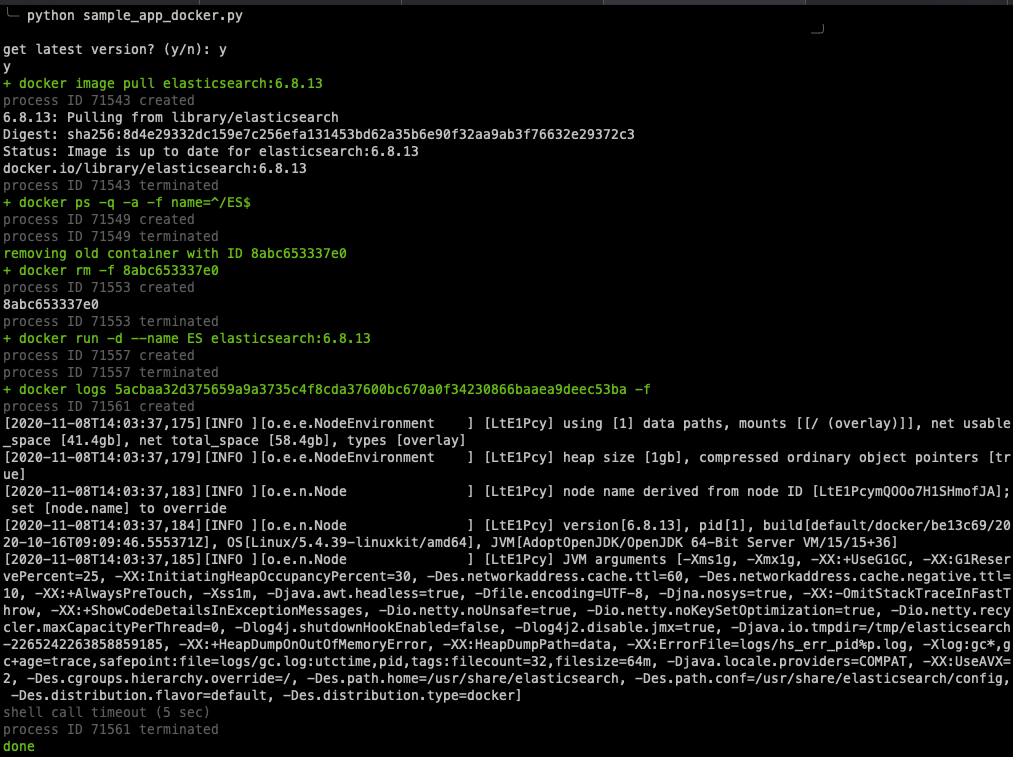
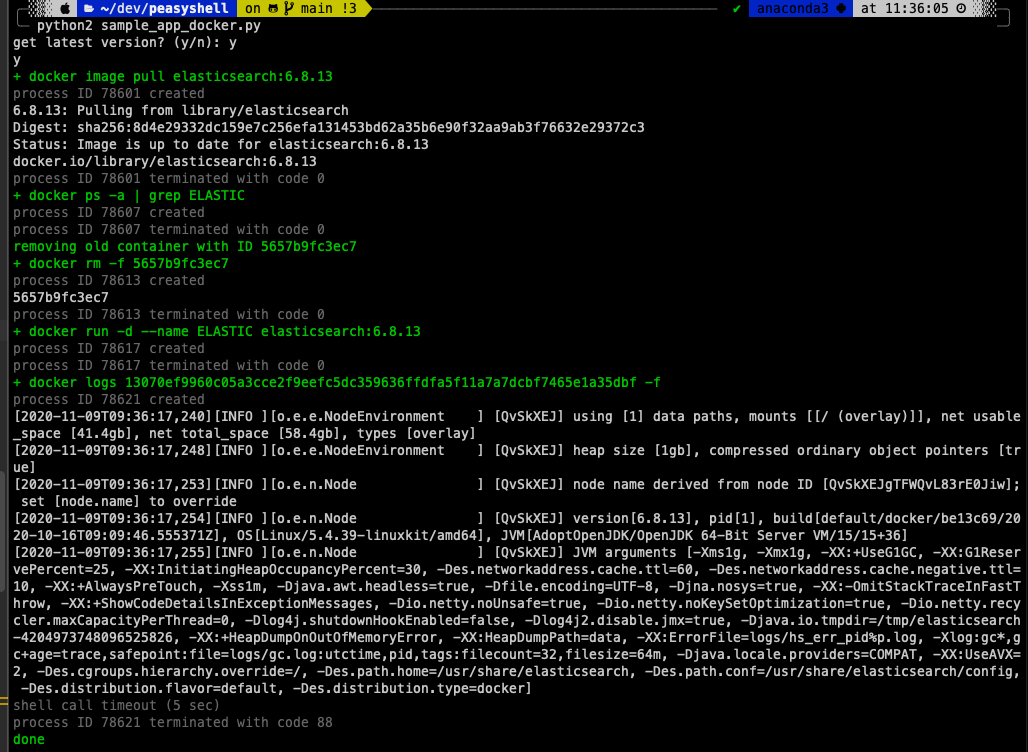
output decode compatibility fix, save last result in a local variable, examples improved

Changed region(s): [[0.0, 0.0, 1.0, 1.0]]

diff --git a/peasyshell.py b/peasyshell.py
@@ -125,6 +125,8 @@ The exit code that the script will end with when timeout occurred and exit_on_ti
 """
 timeout_exitcode = 88
 
+shres = ShellResult()
+
 
 def sh(cmd,
        fmt_args=(),
@@ -225,8 +227,6 @@ def sh(cmd,
     # note: child will not be terminated if parent (this) process is killed
     child_process_ids.add(p.pid)
 
-    res = ShellResult()
-
     timed_out = False
     if timeout_sec == 0:
         p.wait()
@@ -250,18 +250,25 @@ def sh(cmd,
     # child process already terminated, no need to kill it at exit
     child_process_ids.remove(p.pid)
 
+    def try_decode(s):
+        try:
+            return s.decode()
+        except (UnicodeDecodeError, AttributeError):
+            return s
+
+    shres.returncode = p.returncode
+    shres.stdout = None
+    shres.stdout = None
     if p.stdout:
-        res.stdout = p.stdout.read().decode()
+        shres.stdout = try_decode(p.stdout.read())
     if p.stderr:
-        res.stderr = p.stderr.read().decode()
-    if p.returncode:
-        res.returncode = p.returncode
+        shres.stderr = try_decode(p.stderr.read())
 
     if output_remove_trailing_newlines:
-        if res.stdout:
-            res.stdout = res.stdout.rstrip(os.linesep)
-        if res.stderr:
-            res.stderr = res.stderr.rstrip(os.linesep)
+        if shres.stdout:
+            shres.stdout = shres.stdout.rstrip(os.linesep)
+        if shres.stderr:
+            shres.stderr = shres.stderr.rstrip(os.linesep)
 
     if exit_on_timeout and timed_out:
         logger.error("shell call timed-out - stopping execution")
@@ -271,7 +278,7 @@ def sh(cmd,
         logger.error("shell call failed with code {} - stopping execution".format(p.returncode))
         exit(p.returncode)
 
-    return res
+    return shres
 
 
 def input_compatible(prompt=None):

diff --git a/sample_app_docker.py b/sample_app_docker.py
@@ -6,23 +6,31 @@ from peasyshell import *
 init_logging()
 
 cfg = {
-    "container_name": "ES",
+    "container_name": "ELASTIC",
     "image_name": "elasticsearch:6.8.13"
 }
 
 get_latest = yes_or_no("get latest version?")
 if get_latest:
+    # run a formatted command, output is send to stdout, terminate on cmd failure
     sh("docker image pull {image_name}", **cfg)
 
-container_id = sh("docker ps -q -a -f name=^/{container_name}$", capture_out=True, **cfg).stdout
-if container_id:
-    logger.info("removing old container with ID " + container_id)
-    sh("docker rm -f {}", container_id)
+# run a formatted command and capture standard output stream, do not terminate on error. Shell enabled to allow piping.
+res = sh("docker ps -a | grep {container_name}", shell=True, capture_out=True, exit_on_fail=False, **cfg)
+# grep error code 0 means search string found
+if res.returncode == 0:
+    # process the output conveniently, no need for awk/sed
+    old_container_id = res.stdout.split()[0]
+    logger.info("removing old container with ID " + old_container_id)
+    # cmd formatting is also possible with positional arguments
+    sh("docker rm -f {}", [old_container_id])
 else:
     logger.info("container does not exist")
 
-container_id = sh("docker run -d --name {container_name} {image_name}", capture_out=True, **cfg).stdout
+sh("docker run -d --name {container_name} {image_name}", capture_out=True, **cfg)
 
-sh("docker logs {} -f", container_id, timeout_sec=5)
+# run command and stop if after 5 seconds
+# last result always stored in shres local variable
+sh("docker logs {} -f", [shres.stdout], timeout_sec=5)
 
 logger.info("done")

diff --git a/sample_app.py b/sample_app.py
@@ -14,8 +14,8 @@ sh("""cat peasyshell.py
 hostname = sh("hostname -f", capture_out=True, output_remove_trailing_newlines=True).stdout
 print("my hostname is [{}]".format(hostname))
 
-hostname = sh("hostname -f", capture_out=True, output_remove_trailing_newlines=False).stdout
-print("my hostname is [{}]".format(hostname))
+sh("hostname -f", capture_out=True, output_remove_trailing_newlines=False)
+print("my hostname is [{}]".format(shres.stdout))
 
 os.environ["my_var1"] = "foo"
 sh("echo **$my_var1**", shell=True)

diff --git a/README.md b/README.md
@@ -8,28 +8,40 @@ Tested on Mac and Ubuntu.
 The story [behind it](https://davidoha.medium.com/avoiding-bash-frustration-use-python-for-shell-scripts-44bba8ba1e9e?source=friends_link&sk=a92de79cb005aa919eadaae811e3acbb).
 
 ```python
+#!/usr/bin/env python2
+
 from peasyshell import *
 
 # initialize logging to stdout in colors by severity level
 init_logging()
 
-container_name = "ES"
-image_name = "elasticsearch:6.8.13"
+cfg = {
+    "container_name": "ELASTIC",
+    "image_name": "elasticsearch:6.8.13"
+}
 
 get_latest = yes_or_no("get latest version?")
 if get_latest:
-    out = sh("docker image pull {}".format(image_name)).stdout
+    # run a formatted command, output is send to stdout, terminate on cmd failure
+    sh("docker image pull {image_name}", **cfg)
 
-container_id = sh("docker ps -q -a -f name=^/{}$".format(container_name), capture_out=True).stdout
-if container_id:
-    logger.info("removing old container with ID " + container_id)
-    sh("docker rm -f " + container_id)
+# run a formatted command and capture standard output stream, do not terminate on error. Shell enabled to allow piping.
+res = sh("docker ps -a | grep {container_name}", shell=True, capture_out=True, exit_on_fail=False, **cfg)
+# grep error code 0 means search string found
+if res.returncode == 0:
+    # process the output conveniently, no need for awk/sed
+    old_container_id = res.stdout.split()[0]
+    logger.info("removing old container with ID " + old_container_id)
+    # cmd formatting is also possible with positional arguments
+    sh("docker rm -f {}", [old_container_id])
 else:
     logger.info("container does not exist")
 
-container_id = sh("docker run -d --name {} {}".format(container_name, image_name), capture_out=True).stdout
+sh("docker run -d --name {container_name} {image_name}", capture_out=True, **cfg)
 
-sh("docker logs {} -f".format(container_id), timeout_sec=5)
+# run command and stop if after 5 seconds
+# last result always stored in shres local variable
+sh("docker logs {} -f", [shres.stdout], timeout_sec=5)
 
 logger.info("done")
 ```
